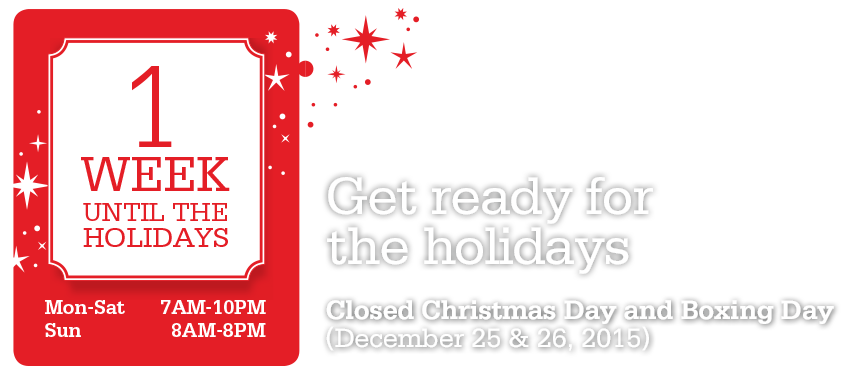
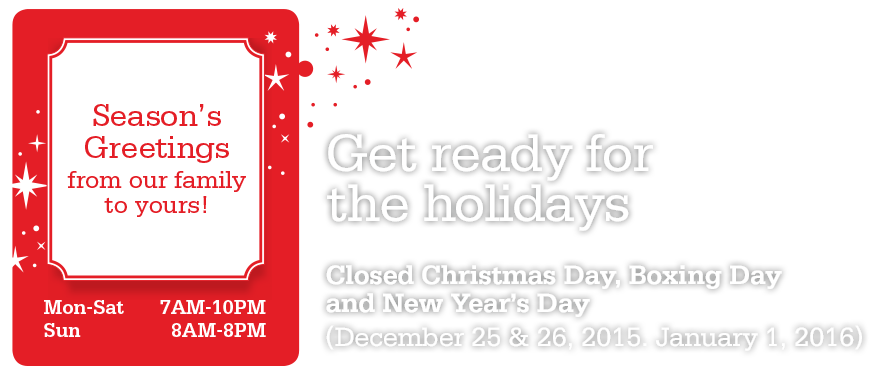
revert back to manual carousel

diff --git a/htdocs/prod/web/assets/css/styles.css b/htdocs/prod/web/assets/css/styles.css
@@ -6534,6 +6534,7 @@ a#flyerModal {
   max-width: initial; }
 
 .item-1-slide {
+	background-image: url('../../assets/images/home_carousel-1.jpg');
   background-position: center;
   background-repeat: no-repeat;
   background-size: cover;

diff --git a/htdocs/prod/web/application/views/home.php b/htdocs/prod/web/application/views/home.php
@@ -1,113 +1,138 @@
-
 <div id="carousel" class="carousel slide home" data-ride="carousel" data-interval="6000" >
-    <ol class="carousel-indicators">
-    </ol>
-    <div class="carousel-inner" role="listbox">
-    </div>
-    <a class="left carousel-control" href="#carousel" role="button" data-slide="prev" onclick="$('#carousel').carousel('pause');">
-      <span class="glyphicon glyphicon-chevron-left" aria-hidden="true"></span>
-      <span class="sr-only">Previous</span>
-    </a>
-    <a class="right carousel-control" href="#carousel" role="button" data-slide="next" onclick="$('#carousel').carousel('pause');">
-      <span class="glyphicon glyphicon-chevron-right" aria-hidden="true"></span>
-      <span class="sr-only">Next</span>
-    </a>
+	<ol class="carousel-indicators">
+		<li data-target="#carousel" data-slide-to="0" class="active"></li>
+		<li data-target="#carousel" data-slide-to="1"></li>
+		<li data-target="#carousel" data-slide-to="2"></li>
+		<li data-target="#carousel" data-slide-to="3"></li>
+		<li data-target="#carousel" data-slide-to="4"></li>
+		<li data-target="#carousel" data-slide-to="5"></li>
+	</ol>
+	<div class="carousel-inner" role="listbox">
+		<a href="#"  class="item active responsive">
+			<!-- Add inline text here to replace copy within current image asset -->
+			<div class="carousel-item-container desktop col-xs-12">
+				<div class="item-1-img">
+					<img src="<?=site_url()?>/assets/images/home_float_left.png" alt="holidays">
+				</div>
+			</div>
+
+			<div class="desktop item-1-slide"></div>
+
+
+			<img class="mobile" src="<?=site_url()?>/assets/images/home_banner_mobile_1.jpg">
+
+		</a>
+		<a  href="/flyer"class="item responsive">
+			<div class="carousel-item-container desktop col-xs-12 home-carousel-caption">
+				<div class="row dow-product-desc-container">
+					<p class="pull-left desktop dow-product-desc">Grade A Butterball Frozen Turkeys<br/>All Sizes<br/><h5 class="dow-product-details">Limit of 1 per family</h5></p>
+				</div>
+				<img class="desktop" src="<?=site_url()?>/assets/images/home_price-2.png">
+			</div>
+
+			<img class="desktop" src="<?=site_url()?>/assets/images/home_carousel-2.jpg">
+			<img class="mobile" src="<?=site_url()?>/assets/images/home_banner_mobile_2.jpg">
+		</a>
+		<a href="/flyer" class="item responsive">
+			<div class="carousel-item-container desktop col-xs-12 home-carousel-caption">
+				<div class="row dow-product-desc-container">
+					<p class="pull-left desktop dow-product-desc">Fresh Clementines<br/>Product of Morocco</p>
+				</div>
+				<img class="desktop" src="<?=site_url()?>/assets/images/home_price-3.png">
+			</div>
+
+			<img class="desktop" src="<?=site_url()?>/assets/images/home_carousel-3.jpg">
+			<img class="mobile" src="<?=site_url()?>/assets/images/home_banner_mobile_3.jpg">
+
+		</a>
+		<a href="/flyer" class="item responsive">
+			<div class="carousel-item-container desktop col-xs-12 home-carousel-caption">
+				<img class="desktop" src="<?=site_url()?>/assets/images/home_price-4.png">
+			</div>
+
+			<img class="desktop" src="<?=site_url()?>/assets/images/home_carousel-4.jpg">
+			<img class="mobile" src="<?=site_url()?>/assets/images/home_banner_mobile_4.jpg">
+
+		</a>
+		<a href="/flyer" class="item responsive">
+			<div class="carousel-item-container desktop col-xs-12 home-carousel-caption">
+				<img class="desktop" src="<?=site_url()?>/assets/images/home_price-5.png">
+			</div>
+
+			<img class="desktop" src="<?=site_url()?>/assets/images/home_carousel-5.jpg">
+			<img class="mobile" src="<?=site_url()?>/assets/images/home_banner_mobile_5.jpg">
+
+		</a>
+		<a href="/flyer" class="item responsive">
+			<div class="carousel-item-container desktop col-xs-12 home-carousel-caption">
+				<img class="desktop" src="<?=site_url()?>/assets/images/home_price-6.png">
+			</div>
+
+			<img class="desktop" src="<?=site_url()?>/assets/images/home_carousel-6.jpg">
+			<img class="mobile" src="<?=site_url()?>/assets/images/home_banner_mobile_6.jpg">
+		</a>
+	</div>
+	<a class="left carousel-control" href="#carousel" role="button" data-slide="prev" onclick="$('#carousel').carousel('pause');">
+		<span class="glyphicon glyphicon-chevron-left" aria-hidden="true"></span>
+		<span class="sr-only">Previous</span>
+	</a>
+	<a class="right carousel-control" href="#carousel" role="button" data-slide="next" onclick="$('#carousel').carousel('pause');">
+		<span class="glyphicon glyphicon-chevron-right" aria-hidden="true"></span>
+		<span class="sr-only">Next</span>
+	</a>
 </div>
 
 </header>
-
-<script type="text/html" id="slide-feature">
-  <a href="_link_"  class="item active responsive">
-  	<div class="carousel-item-container desktop col-xs-12">
-    	<!-- Add inline text here to replace copy within current image asset -->
-      _featuredDescription_
-      <div class="item-1-img" style="_desktopSideImageStyles_">
-      	<img src="<?=site_url()?>_desktopSideImage_" alt="holidays">
-      </div>
-    </div>
-
-    <div class="desktop item-1-slide" style="background-image: url('_desktopSlideBackground_');"></div>
-
-    <img class="mobile" src="<?=site_url()?>_mobileSlideBackground_">
-  </a>
-</script>
-
-<script type="text/html" id="slide-dow-inline">
-	<a  href="_link_" class="item responsive">
-	  <div class="carousel-item-container desktop col-xs-12 home-carousel-caption">
-      <div class="row dow-product-desc-container">
-        <p class="pull-left desktop dow-product-desc">_description_<h5 class="dow-product-details">_descriptionSubtext_</h5></p>
-	    </div>
-	      <img class="desktop" src="<?=site_url()?>_desktopPriceImage_">
-	    </div>
-
-	    <img class="desktop" src="<?=site_url()?>_desktopSlideBackground_">
-	    <img class="mobile" src="<?=site_url()?>_mobileSlideBackground_">
-	</a>
-</script>
-
-<script type="text/html" id="slide-dow">
-	<a href="_link_" class="item responsive">
-    <div class="carousel-item-container desktop col-xs-12 home-carousel-caption">
-        <img class="desktop" src="<?=site_url()?>_desktopPriceImage_">
-    </div>
-
-    <img class="desktop" src="<?=site_url()?>_desktopSlideBackground_">
-    <img class="mobile" src="<?=site_url()?>_mobileSlideBackground_">
-
-  </a>
-</script>
-
 <main class='home'>
-    <div class="row home-categories">
-        <div class="col-xs-12 col-sm-4">
-            <a href='/flyer'>
-                <h4 class="box top">Flyers</h1>
-                <div class='img'><img src="<?=site_url()?>/assets/images/hf_flyer.jpg" alt="Flyers" style="width: 100%;"/></div>
-            </a>
-        </div>
-        <div class="col-xs-12 col-sm-4">
-            <a href='<?=site_url()?>recipes'>
-                <h4 class="box top">Recipes</h1>
-                <div class='img'><img src="<?=site_url()?>/assets/images/home_recipes.jpg" alt="Recipes"/></div>
-            </a>
-        </div>
-        <div class="col-xs-12 col-sm-4">
-            <a href='<?=site_url()?>country-kitchen'>
-                <h4 class="box top">Country Kitchen</h1>
-                <div class='img'><img src="<?=site_url()?>/assets/images/home_ck.jpg" alt="Country Kitchen"/></div>
-            </a>
-        </div>
-    </div>
+	<div class="row home-categories">
+		<div class="col-xs-12 col-sm-4">
+			<a href='/flyer'>
+				<h4 class="box top">Flyers</h1>
+				<div class='img'><img src="<?=site_url()?>/assets/images/hf_flyer.jpg" alt="Flyers" style="width: 100%;"/></div>
+			</a>
+		</div>
+		<div class="col-xs-12 col-sm-4">
+			<a href='<?=site_url()?>recipes'>
+				<h4 class="box top">Recipes</h1>
+				<div class='img'><img src="<?=site_url()?>/assets/images/home_recipes.jpg" alt="Recipes"/></div>
+			</a>
+		</div>
+		<div class="col-xs-12 col-sm-4">
+			<a href='<?=site_url()?>country-kitchen'>
+				<h4 class="box top">Country Kitchen</h1>
+				<div class='img'><img src="<?=site_url()?>/assets/images/home_ck.jpg" alt="Country Kitchen"/></div>
+			</a>
+		</div>
+	</div>
 
-    <hr class='extra-space'>
+	<hr class='extra-space'>
 
-    <div class="row">
-        <div class="col-xs-6 col-sm-3 home-thumbnail-grid">
-            <a href='<?=site_url()?>visit-us'>
-                <img class="col-xs-12" src="<?=site_url()?>/assets/images/home_visit.jpg" alt="Visit Us"/>
-                <p class="col-xs-12 home-thumbnail-desc">Visit Us</p>
-            </a>
-        </div>
-        <div class="col-xs-6 col-sm-3 home-thumbnail-grid">
-            <a href='<?=site_url()?>party-platters'>
-                <img class="col-xs-12" src="<?=site_url()?>/assets/images/home_pp.jpg" alt="Party Platters And More"/>
-                <p class="col-xs-12 home-thumbnail-desc">Party Platters And More</p>
-            </a>
-        </div>
-        <div class="col-xs-6 col-sm-3 home-thumbnail-grid">
-            <a href='<?=site_url()?>about/highland-farms-originals'>
-                <img class="col-xs-12" src="<?=site_url()?>/assets/images/home_originals.jpg" alt="Highland Farms Originals"/>
-                <p class="col-xs-12 home-thumbnail-desc">Highland Farms Originals</p>
-            </a>
-        </div>
-        <div class="col-xs-6 col-sm-3 home-thumbnail-grid">
-            <a href='<?=site_url()?>inside-store'>
-                <img class="col-xs-12" src="<?=site_url()?>/assets/images/home_inside-store.jpg" alt="Inside The Store"/>
-                <p class="col-xs-12 home-thumbnail-desc">Inside The Store</p>
-            </a>
-        </div>
-    </div>
+	<div class="row">
+		<div class="col-xs-6 col-sm-3 home-thumbnail-grid">
+			<a href='<?=site_url()?>visit-us'>
+				<img class="col-xs-12" src="<?=site_url()?>/assets/images/home_visit.jpg" alt="Visit Us"/>
+				<p class="col-xs-12 home-thumbnail-desc">Visit Us</p>
+			</a>
+		</div>
+		<div class="col-xs-6 col-sm-3 home-thumbnail-grid">
+			<a href='<?=site_url()?>party-platters'>
+				<img class="col-xs-12" src="<?=site_url()?>/assets/images/home_pp.jpg" alt="Party Platters And More"/>
+				<p class="col-xs-12 home-thumbnail-desc">Party Platters And More</p>
+			</a>
+		</div>
+		<div class="col-xs-6 col-sm-3 home-thumbnail-grid">
+			<a href='<?=site_url()?>about/highland-farms-originals'>
+				<img class="col-xs-12" src="<?=site_url()?>/assets/images/home_originals.jpg" alt="Highland Farms Originals"/>
+				<p class="col-xs-12 home-thumbnail-desc">Highland Farms Originals</p>
+			</a>
+		</div>
+		<div class="col-xs-6 col-sm-3 home-thumbnail-grid">
+			<a href='<?=site_url()?>inside-store'>
+				<img class="col-xs-12" src="<?=site_url()?>/assets/images/home_inside-store.jpg" alt="Inside The Store"/>
+				<p class="col-xs-12 home-thumbnail-desc">Inside The Store</p>
+			</a>
+		</div>
+	</div>
 </main>
 
 

diff --git a/htdocs/prod/web/application/views/footer.php b/htdocs/prod/web/application/views/footer.php
@@ -38,16 +38,12 @@
 <script src="/assets/js/hlf.recipes.js"></script>
 <script src="/assets/js/sizeify.js"></script>
 <script src="/assets/js/validate.js"></script>
-<script src="/assets/js/hlf.carousel.js"></script>
 <script type='text/javascript'>
   jQuery(document).ready(function($) {
     sl.init();
     $("body").on("click", ".menu-toggle", function(){
       $(".main-nav").hasClass("closed")?$(".main-nav").removeClass("closed"):$(".main-nav").addClass("closed");
     });
-    <?php $currentDate = new DateTime('now'); ?>
-    carousel.currentTime = "<?php echo $currentDate->format('Y/m/d H:i:s'); ?>";
-    carousel.init(carousel.currentTime);
   });
 </script>
 <script>
